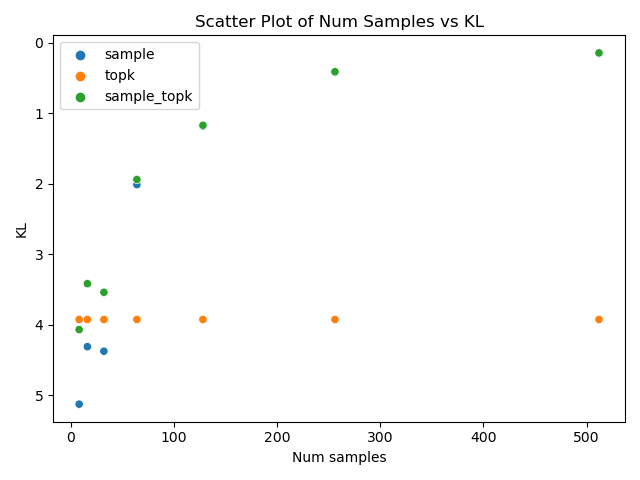
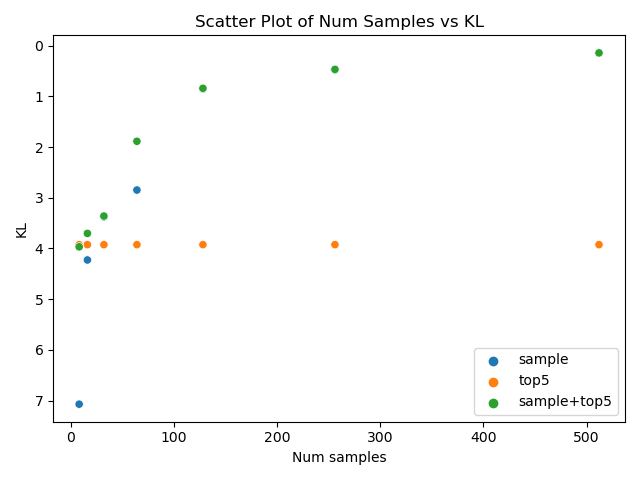
formatting

diff --git a/estimate.py b/estimate.py
@@ -10,9 +10,6 @@ from torch.distributions import Categorical, kl_divergence
 
 torch.set_grad_enabled(False)
 
-
-
-
 llama = "meta-llama/Llama-2-7b-chat-hf"
 gpt = "gpt2"
 
@@ -77,11 +74,11 @@ for K in Ks:
 
     Ks_df.append(K)
     kls.append(topk_kl)
-    methods.append("topk")
+    methods.append("top5")
 
     Ks_df.append(K)
     kls.append(sample_topk_kl)
-    methods.append("sample_topk")
+    methods.append("sample+top5")
 
 df = pd.DataFrame({'x': Ks_df, 'y': kls, "method": methods})
 sns.scatterplot(data=df, x="x", y="y", hue="method")
